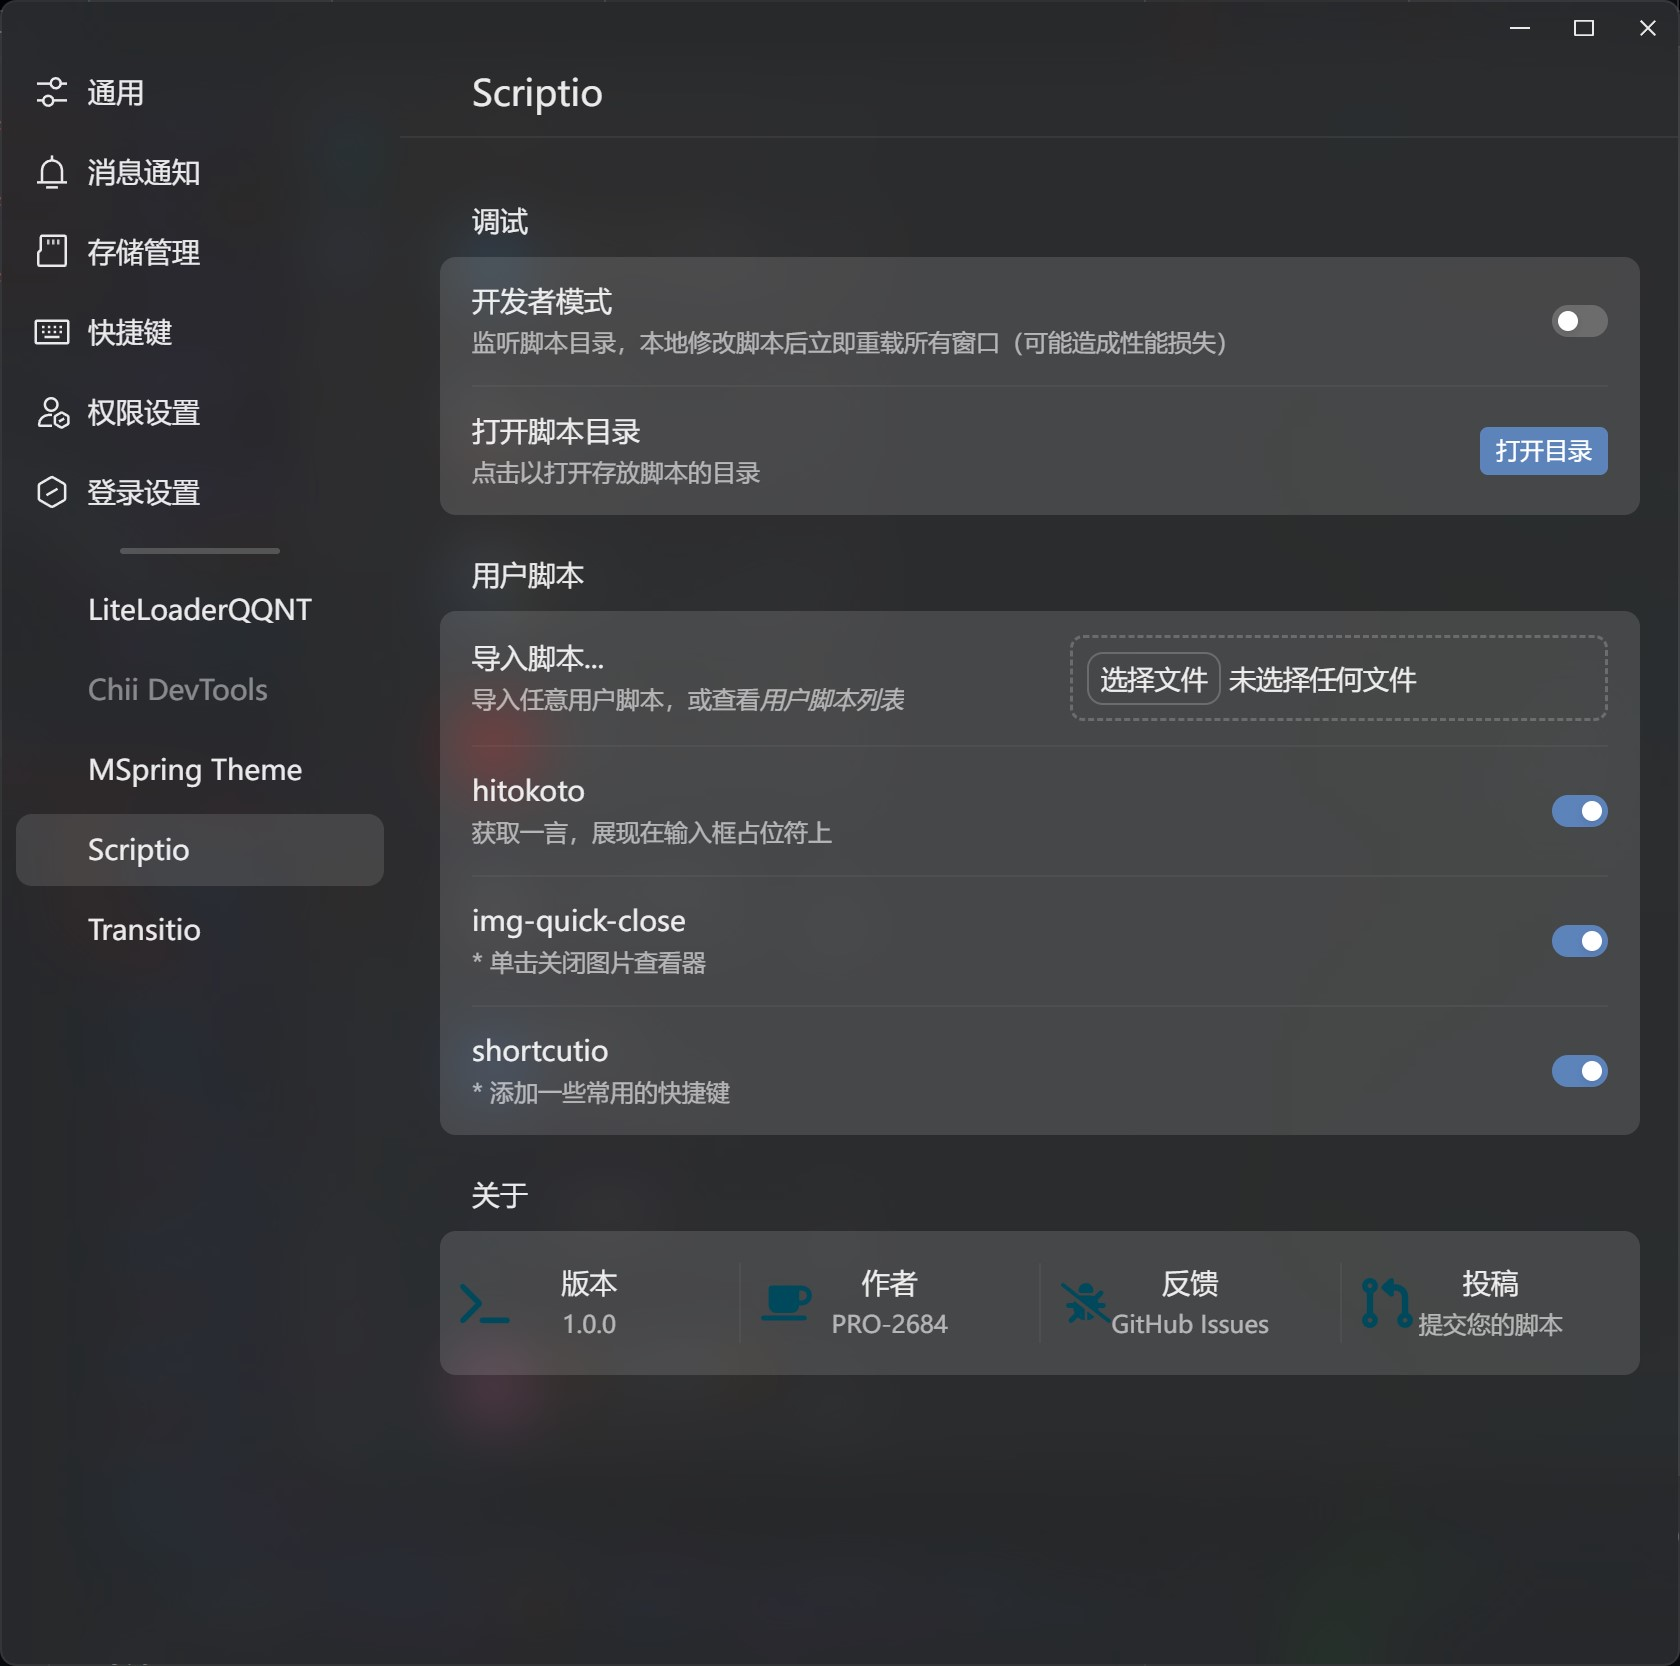
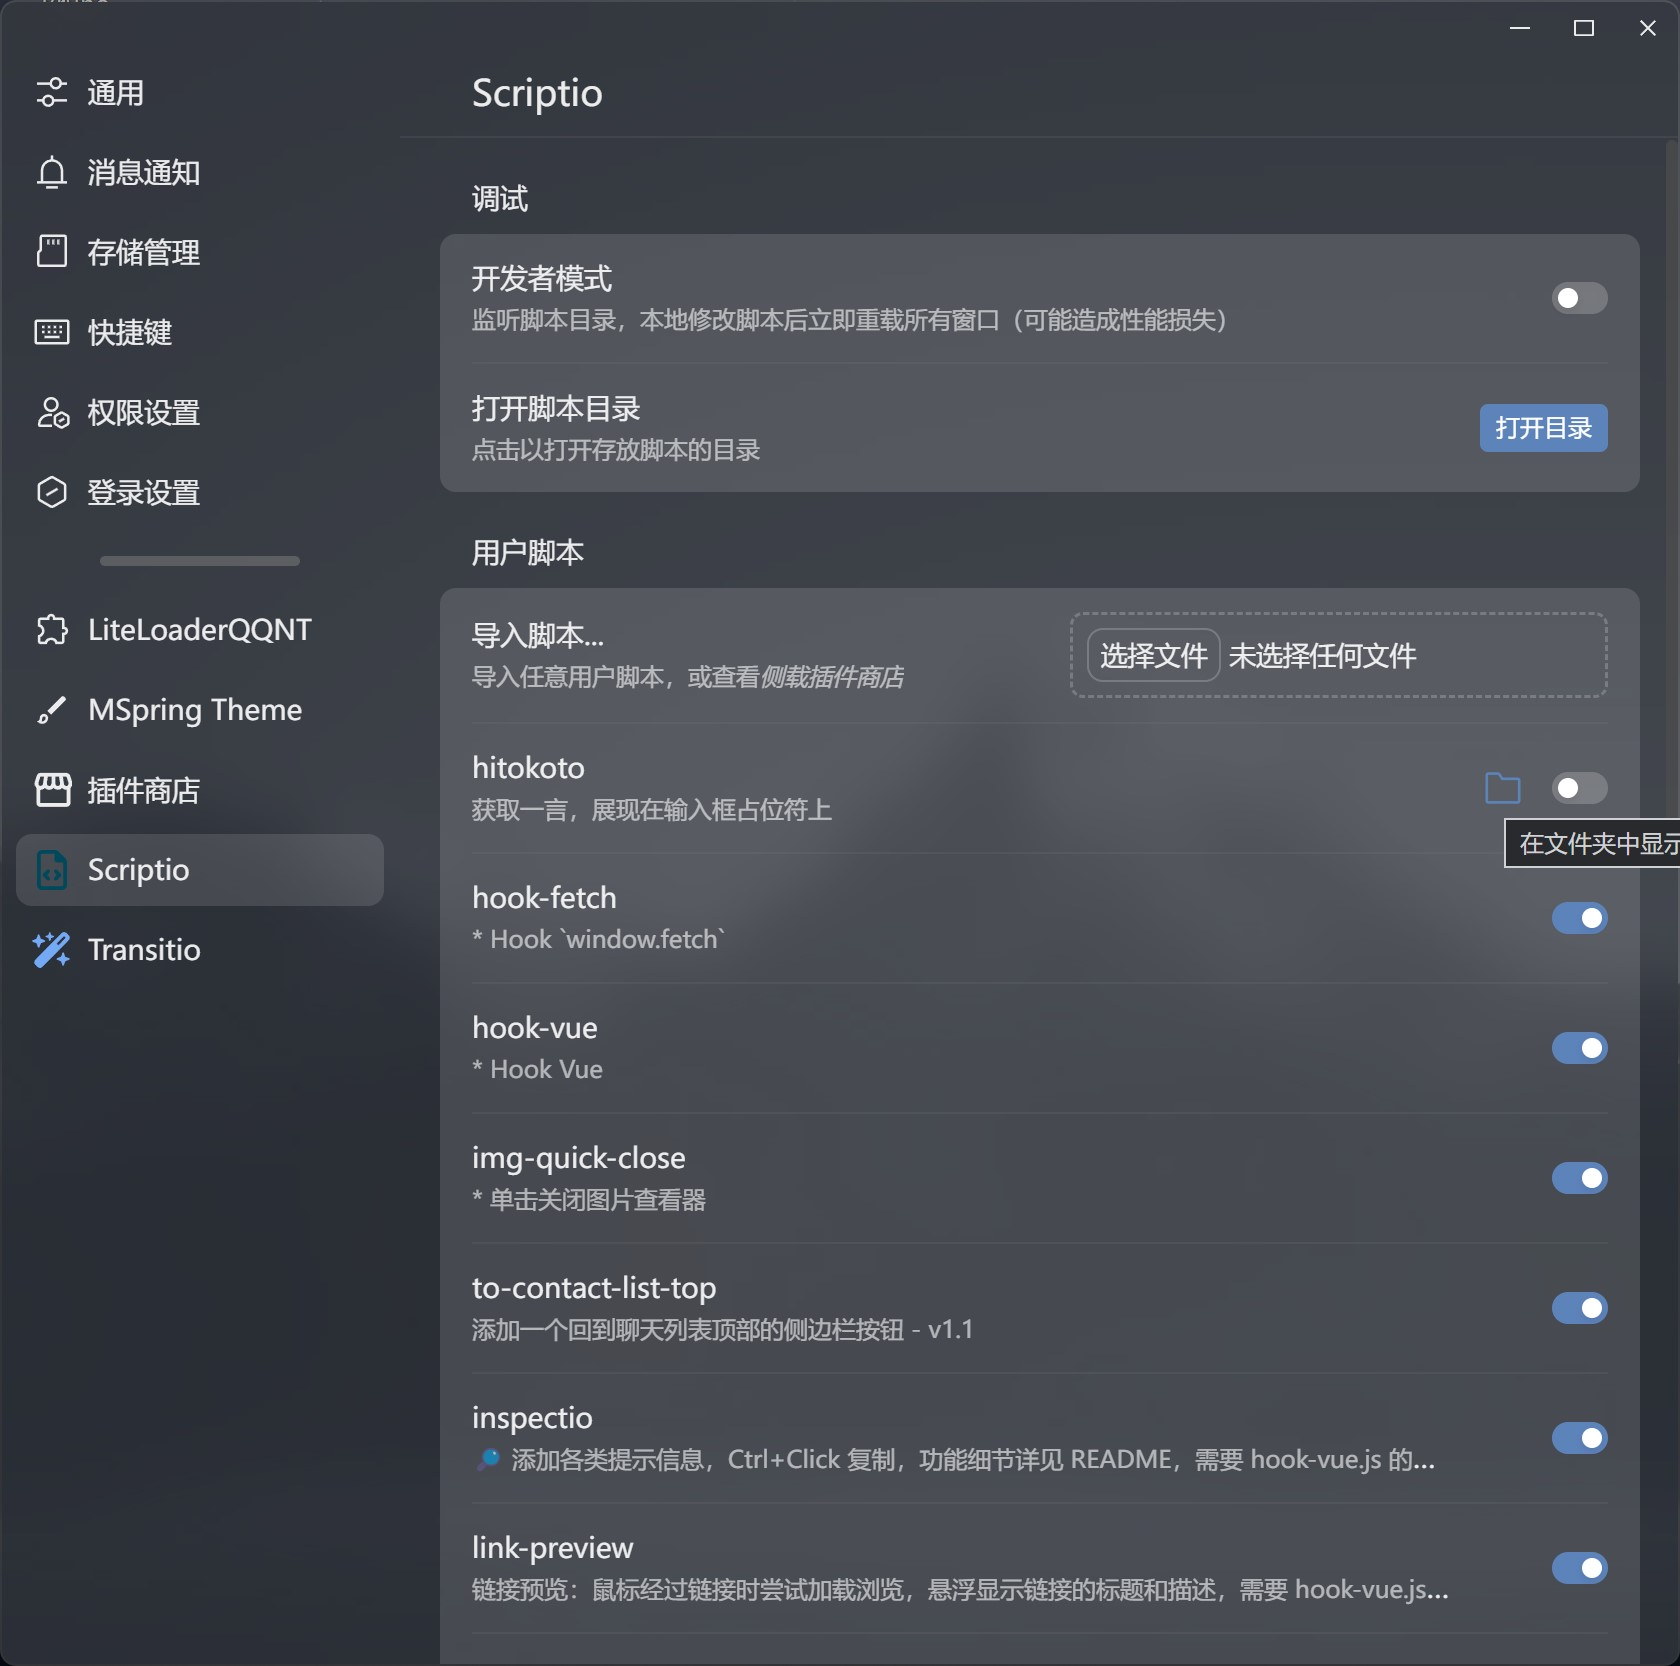
Update README

diff --git a/README.md b/README.md
@@ -57,8 +57,9 @@ plugins (所有的插件目录)
     - JS 文件首行的注释（若有）会被当作脚本说明，显示在设置界面中。
     - 可以在此文件夹下创建多层目录，插件会自动扫描所有 JS 文件，但是设置界面导入的还是默认直接放在 `data/transitio/styles/` 下（v1.1.0 起）
 - 删除脚本：~~点击删除按钮，或~~进入 `data/Scriptio/scripts/` 文件夹删除对应文件。
-    - 鼠标悬停在脚本标题上时，会显示其完整的相对路径。
 - 修改脚本：修改对应文件即可。
+    - 鼠标悬停在脚本标题上时，会显示其绝对路径。
+    - 鼠标悬停在脚本上时，会展示 "在文件夹中显示" 按钮。
 - 更新脚本：重新导入即可。
 - 重载脚本：双击 "导入脚本..."。
 
